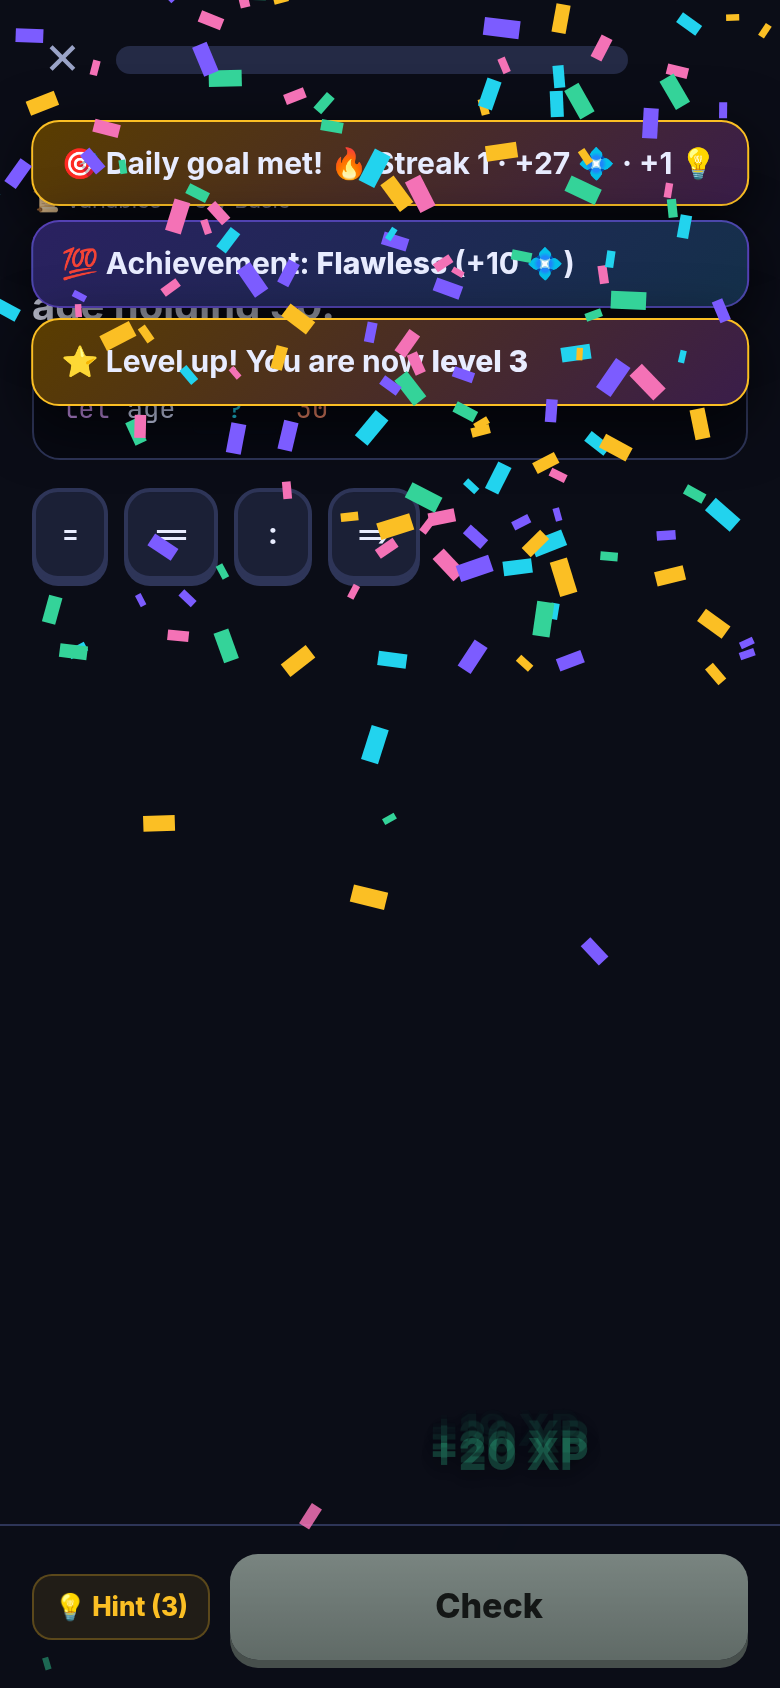
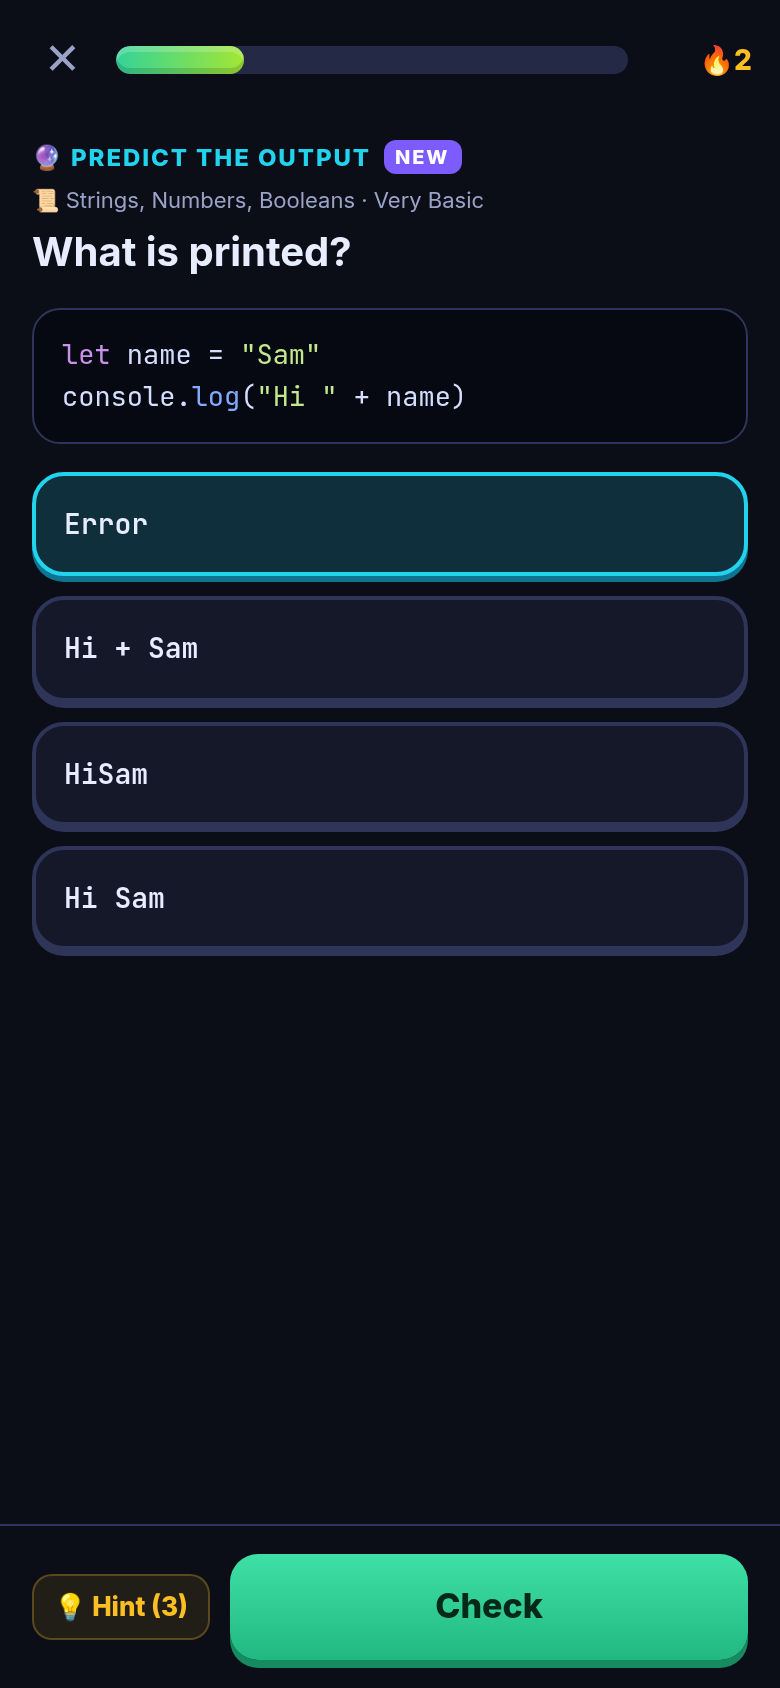
Tune idle economy, quieter toasts

diff --git a/ui.js b/ui.js
@@ -52,7 +52,7 @@ function confStep() {
   parts.forEach(function (p) { p.vy += 0.3; p.vx *= 0.99; p.x += p.vx; p.y += p.vy; p.a += p.va; cx.save(); cx.translate(p.x, p.y); cx.rotate(p.a); cx.fillStyle = p.c; cx.globalAlpha = Math.min(1, p.life / 40); cx.fillRect(-p.r, -p.r / 2, p.r * 2, p.r); cx.restore(); });
   if (parts.length) requestAnimationFrame(confStep); else { confRunning = false; cx.clearRect(0, 0, innerWidth, innerHeight); }
 }
-function toast(html, cls) { var d = document.createElement('div'); d.className = 'toast ' + (cls || ''); d.innerHTML = html; $('#toasts').appendChild(d); setTimeout(function () { d.remove(); }, 3300); }
+function toast(html, cls) { var box = $('#toasts'); while (box.children.length >= 3) box.firstChild.remove(); var d = document.createElement('div'); d.className = 'toast ' + (cls || ''); d.innerHTML = html; $('#toasts').appendChild(d); setTimeout(function () { d.remove(); }, 3300); }
 function floatText(txt, x, y, color) { var d = document.createElement('div'); d.className = 'floatxp'; d.textContent = txt; d.style.left = (x - 30) + 'px'; d.style.top = (y - 20) + 'px'; if (color) d.style.color = color; document.body.appendChild(d); setTimeout(function () { d.remove(); }, 1000); }
 function modal(html) { var m = $('#modal'); m.innerHTML = '<div class="mbox">' + html + '</div>'; m.classList.remove('hidden'); }
 function closeModal() { $('#modal').classList.add('hidden'); $('#modal').innerHTML = ''; }
@@ -489,7 +489,7 @@ function flyCoins() { var d = $('#desk'); if (!d) return; for (var i = 0; i < 5;
 // ---------------- hooks from engine ----------------
 window.UI = {
   relicFound: function (r) { setTimeout(function () { SFX.relic(); confetti(200, ['#fbbf24', '#fde68a', '#f472b6', '#22d3ee']); toast('<span style="font-size:22px">' + r.ic + '</span> RELIC FOUND: <b>' + r.name + '</b><br><small>' + r.eff + '</small>', 'gold'); }, 300); },
-  achievement: function (a) { setTimeout(function () { SFX.coin(); toast(a.ic + ' Achievement: <b>' + a.name + '</b> (+10 💠)'); }, 600); },
+  achievement: function (a) { if (sess) return; setTimeout(function () { SFX.coin(); toast(a.ic + ' Achievement: <b>' + a.name + '</b> (+10 💠)'); }, 600); },
   dailyGoal: function (rew) { setTimeout(function () { SFX.done(); confetti(120); toast('🎯 Daily goal met! 🔥 Streak ' + G.S.streak.count + ' · +' + rew + ' 💠 · +1 💡', 'gold'); }, 500); }
 };
 

diff --git a/game.js b/game.js
@@ -355,7 +355,7 @@ var TICKETS = {
 function ticketLevelCap() { return 2 + 2 * S.tier; }
 function repLevel() { return Math.min(ticketLevelCap(), 1 + Math.floor(Math.log2(1 + S.rep / 10))); }
 function workSpeed() {
-  var m = 1 + knowledgePower() * 0.02;
+  var m = 1 + knowledgePower() * 0.01;
   m *= 1 + 0.10 * lv('apply'); m *= 1 + 0.15 * lv('keyboard'); m *= 1 + 0.10 * lv('chair'); m *= 1 + 0.20 * lv('intern'); if (lv('cat')) m *= 1.05; if (hasRelic('kbd')) m *= 2;
   return m;
 }
@@ -369,7 +369,7 @@ function newTicket() {
   var tr = tracks[Math.floor(Math.random() * tracks.length)], L = repLevel();
   var names = TICKETS[tr], work = Math.round(40 * Math.pow(1.7, L - 1) * (0.8 + Math.random() * 0.4));
   S.work.seq++;
-  return { id: 'DEV-' + S.work.seq, track: tr, name: names[Math.floor(Math.random() * names.length)], L: L, work: work, done: 0, coins: Math.round(work * 0.25 * Math.pow(1.08, L - 1)), rep: L, finished: false };
+  return { id: 'DEV-' + S.work.seq, track: tr, name: names[Math.floor(Math.random() * names.length)], L: L, work: work, done: 0, coins: Math.max(1, Math.round(work * 0.15 * Math.pow(1.08, L - 1))), rep: L, finished: false };
 }
 function ensureTickets() { while (S.work.tickets.length < slots()) S.work.tickets.push(newTicket()); }
 function ticketSpeed(tk) { return workSpeed() * (1 + 0.05 * (trackLevel(tk.track).level - 1)); }
